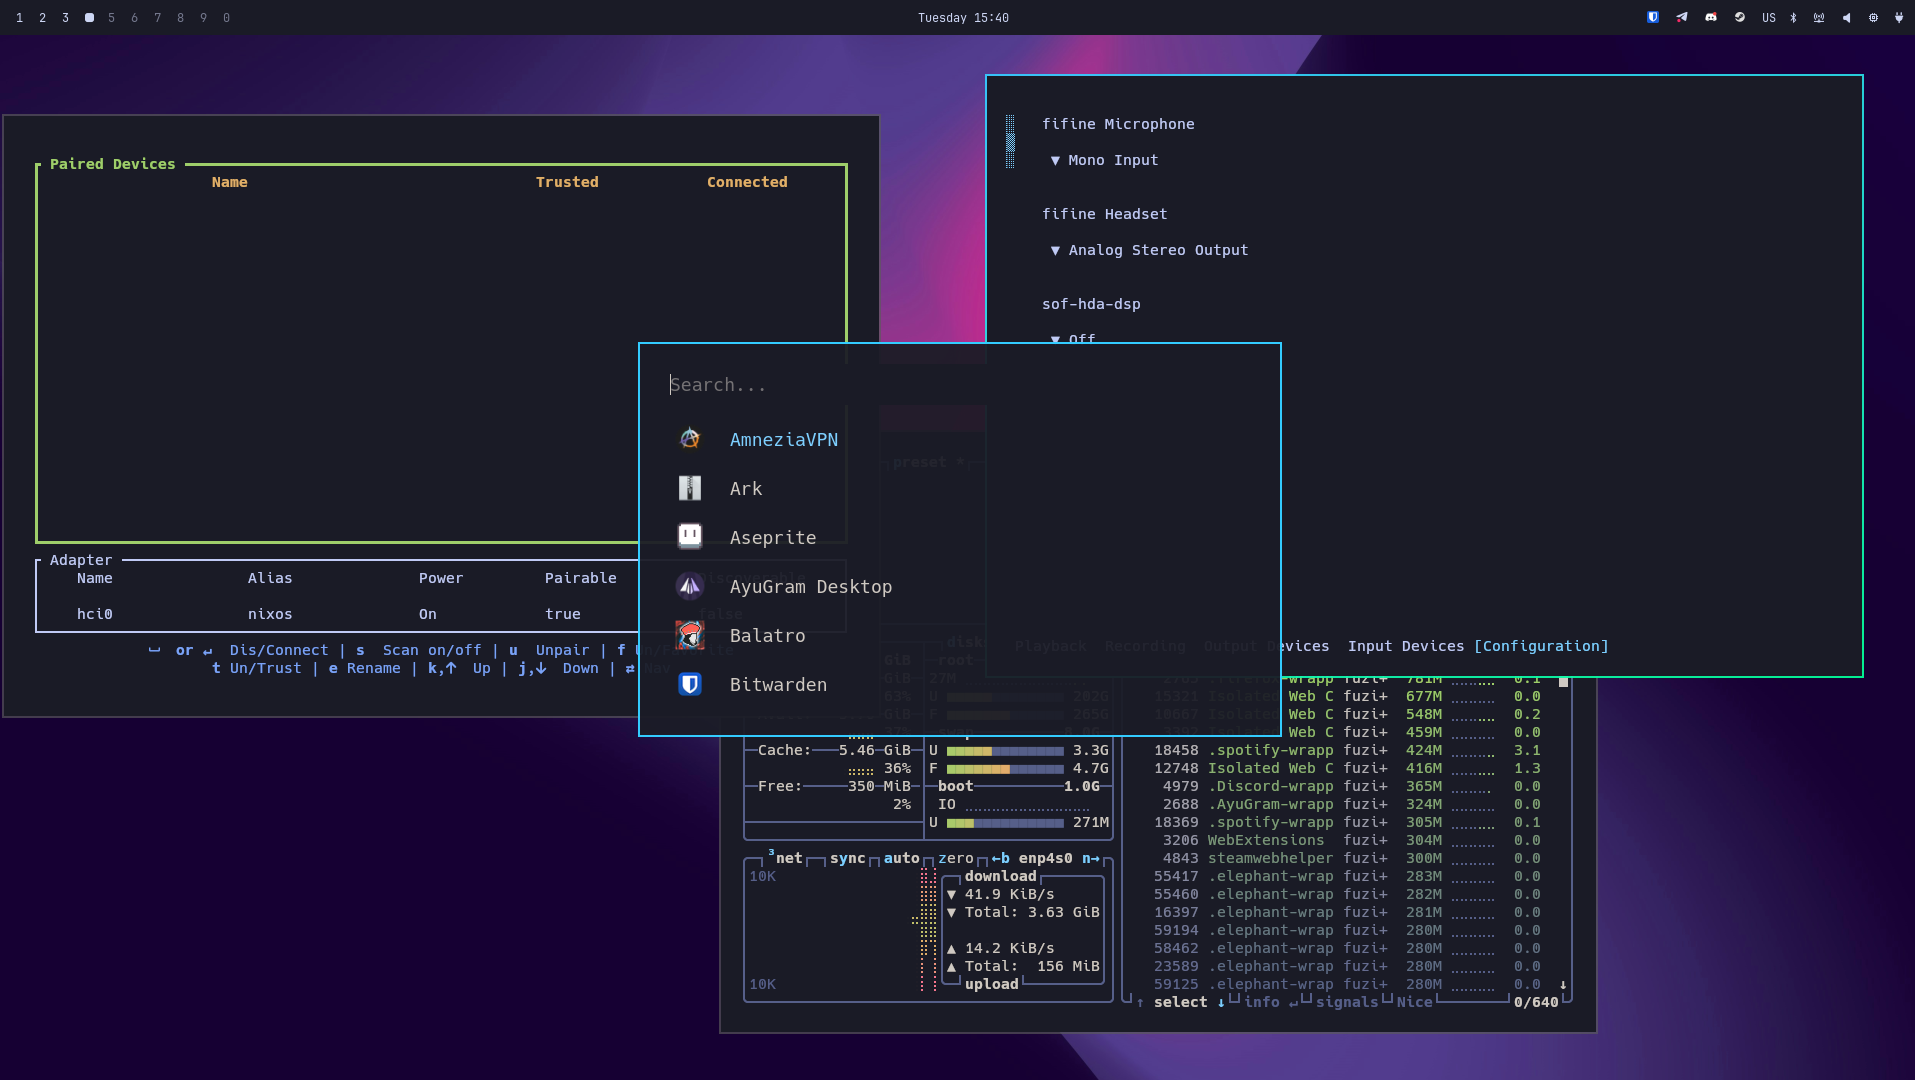
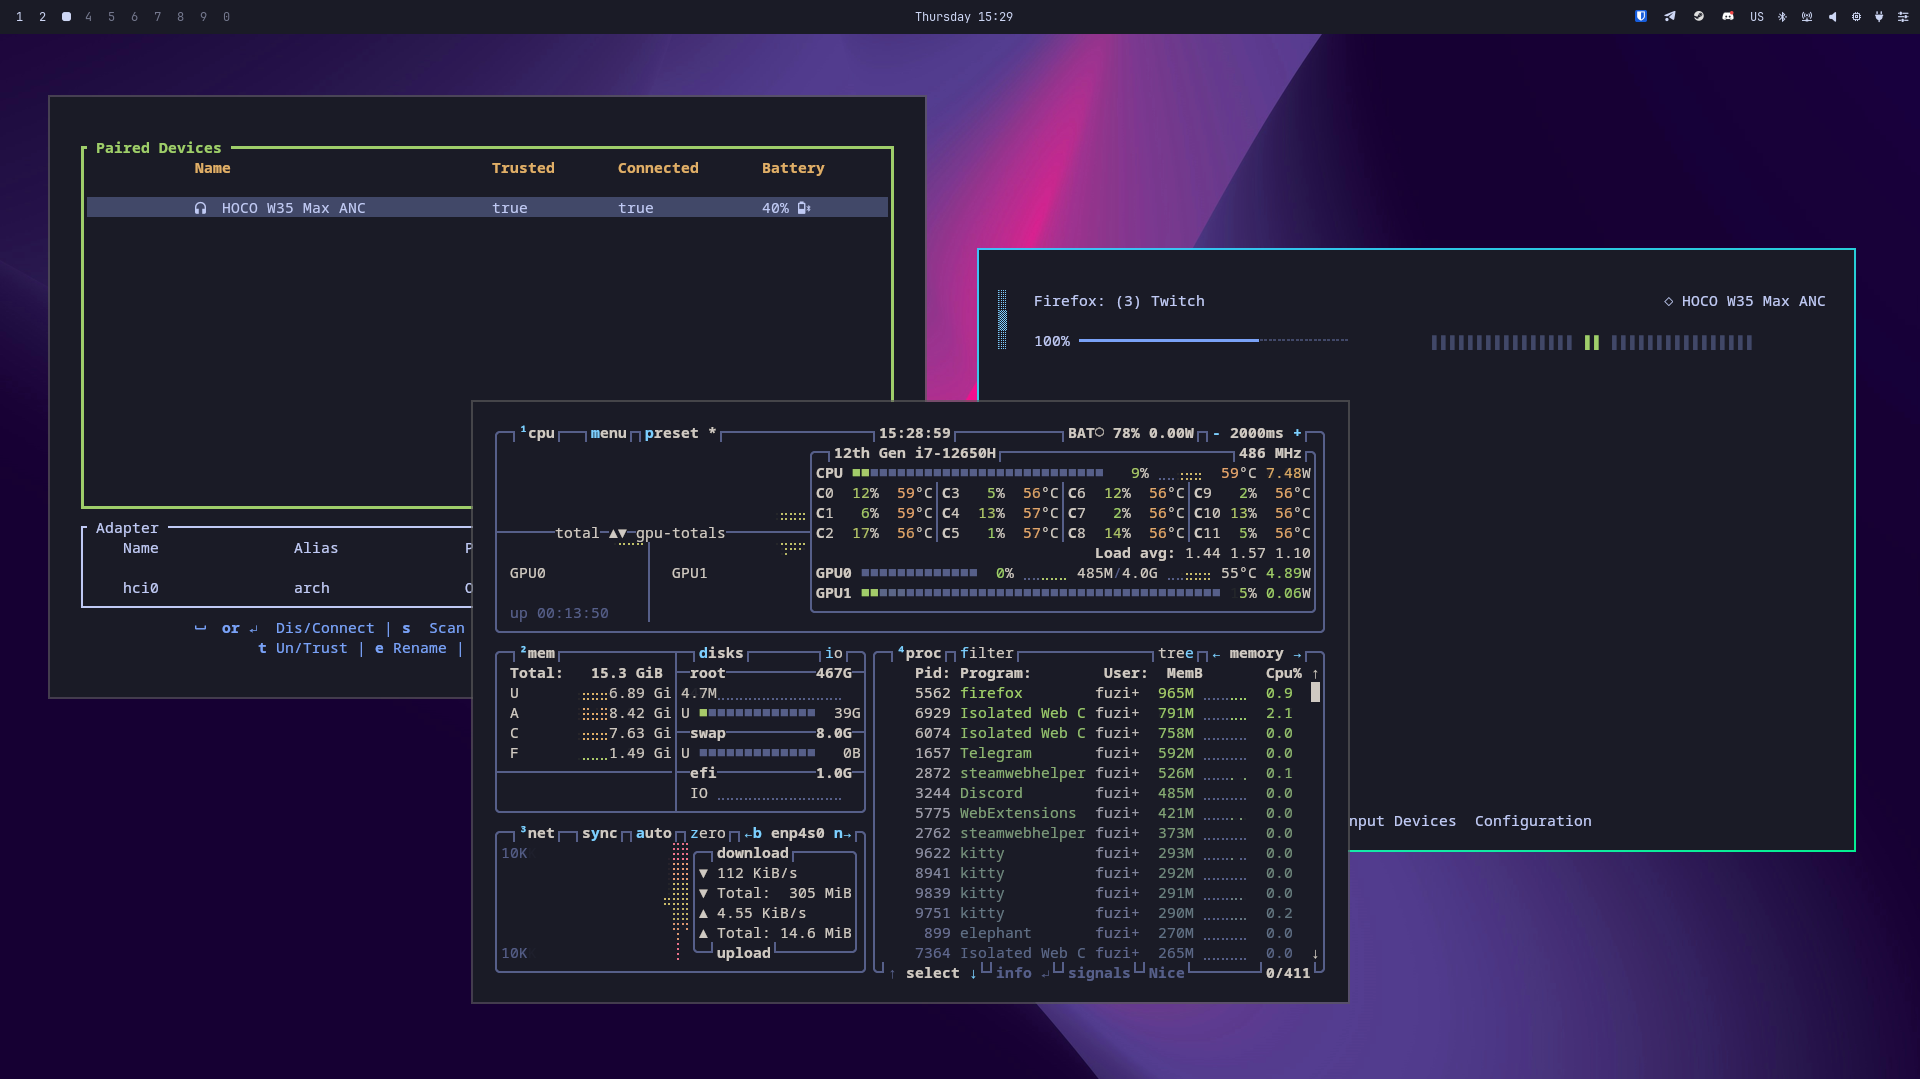
improvement of the component

diff --git a/README.md b/README.md
@@ -14,7 +14,7 @@
 | Launcher        | Walker    |
 | System Info     | Fastfetch |
 | Monitor         | Btop      |
-| Session Manager | uwsm      |
+| Session Manager | UWSM      |
 
 ## Installation
 
@@ -36,6 +36,7 @@ Run the installer:
 | Bind            | Module    |
 | --------------- | --------- |
 | Super           | Apps      |
+| Super + D       | Menu      |
 | Super + K       | Binds     |
 | Super + V       | Clipboard |
 | Super + Period  | Symbol    |
